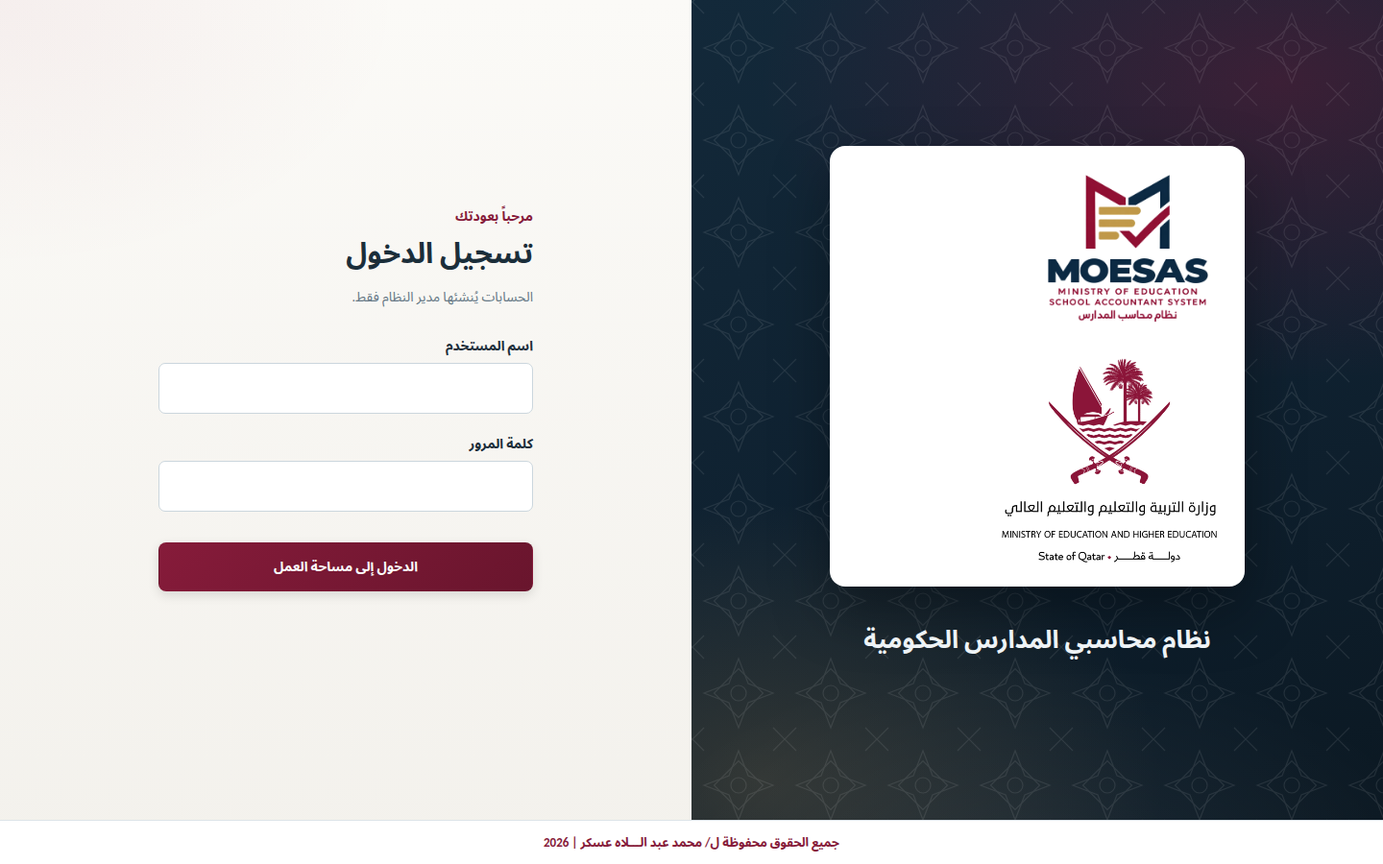
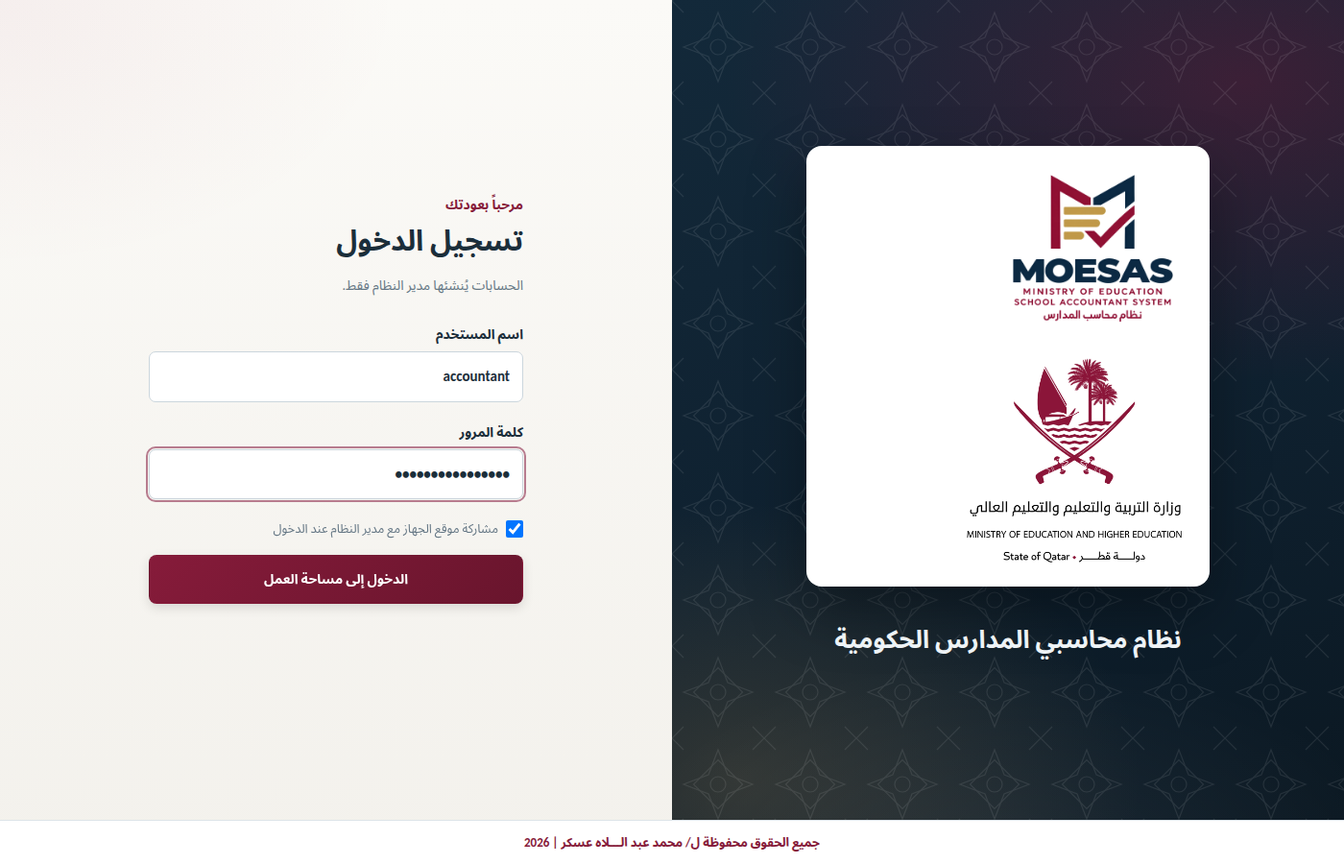
Sign-in locations back for the administrator (2026-10-04.2)
- Sign-in page: «share device location with the administrator» box, ticked by default; the browser asks permission and a refusal still signs in
- Administrator sign-in log and accountant file show the location on the map with accuracy and the nearest school
- School location in the school data (typed, from the current position, or when adding a school); schools without one are marked

Claude-Session: https://claude.ai/code/session_01CcpuQ4HtUcWStjYTbsseLq

diff --git a/apps/web/views/AdminConsole.tsx b/apps/web/views/AdminConsole.tsx
@@ -12,7 +12,25 @@ import { currency, day, downloadFile, ROLE_CHOICES, ROLE_NAMES } from '../lib/fo
 const when = (v: unknown) =>
   v ? new Date(String(v)).toLocaleString('en-GB', { timeZone: 'Asia/Qatar', dateStyle: 'short', timeStyle: 'short' }) : '—';
 
-/** Sign-in log: who signed in, from which address, device and browser. */
+const distanceText = (m: number) => (m < 1000 ? `${m} م` : `${(m / 1000).toFixed(1)} كم`);
+const mapLink = (lat: number, lng: number) => `https://www.google.com/maps?q=${lat},${lng}`;
+
+/** The school nearest to a sign-in location (schools get a location from their data screen). */
+function Nearest({ n, located }: { n: Row | null; located: boolean }) {
+  if (!located) return <span className="muted">—</span>;
+  if (!n) return <span className="muted">لم تُحدد مواقع المدارس</span>;
+  return n.near ? (
+    <span className="badge s-REGISTERED">
+      في {n.name} ({distanceText(n.metres)})
+    </span>
+  ) : (
+    <small>
+      أقرب مدرسة: {n.name} على {distanceText(n.metres)}
+    </small>
+  );
+}
+
+/** Sign-in log: who signed in, from which address and browser, and the device location when it was shared. */
 function LoginLog() {
   const w = useWorkspace();
   const [rows] = useLoad<Row[]>(() => w.api('admin/logins?take=200'));
@@ -41,10 +59,10 @@ function LoginLog() {
               ? 'Linux'
               : '';
   return (
-    <Panel title="سجل الدخول">
-      <p>يظهر لمسؤول النظام فقط: وقت كل دخول وعنوان الشبكة والجهاز والمتصفح.</p>
+    <Panel title="سجل الدخول ومواقع الأجهزة">
+      <p>يظهر لمسؤول النظام فقط: وقت كل دخول وعنوان الشبكة والمتصفح، وموقع الجهاز إذا سمح المستخدم بمشاركته عند تسجيل الدخول.</p>
       {rows?.length ? (
-        <Table heads={['الوقت', 'المستخدم', 'عنوان الشبكة', 'الجهاز / المتصفح']}>
+        <Table heads={['الوقت', 'المستخدم', 'عنوان الشبكة', 'الجهاز / المتصفح', 'الموقع', 'أقرب مدرسة']}>
           {rows.map((r) => (
             <tr key={r.id}>
               <td>{when(r.createdAt)}</td>
@@ -54,6 +72,19 @@ function LoginLog() {
               <td className="mono">{r.ip}</td>
               <td>
                 {device(r.userAgent)} {browser(r.userAgent)}
+              </td>
+              <td>
+                {r.lat != null && r.lng != null ? (
+                  <a href={mapLink(r.lat, r.lng)} target="_blank" rel="noreferrer">
+                    {Number(r.lat).toFixed(5)}, {Number(r.lng).toFixed(5)}
+                    {r.accuracy ? ` (±${Math.round(r.accuracy)} م)` : ''} ↗
+                  </a>
+                ) : (
+                  <span className="muted">لم يُشارك</span>
+                )}
+              </td>
+              <td>
+                <Nearest n={r.nearest} located={r.lat != null} />
               </td>
             </tr>
           ))}
@@ -164,14 +195,14 @@ export function AdminConsole() {
         }
       >
         <p>
-          اضغط اسم المحاسب لفتح ملفه: بيانات مدارسه كاملة، والتقرير الفني، والاستخدام. المنجزة: المعاملات التي صدرت لها شهادة الإنجاز وكتاب
-          التغطية؛ قيد الإعداد: من تقرير العروض حتى قبل الشهادة.
+          اضغط اسم المحاسب لفتح ملفه: بيانات مدارسه كاملة، والتقرير الفني، ومواقع الدخول مع أقرب مدرسة، والاستخدام. المنجزة: المعاملات التي
+          صدرت لها شهادة الإنجاز وكتاب التغطية؛ قيد الإعداد: من تقرير العروض حتى قبل الشهادة.
         </p>
         <Table heads={['الحساب', 'المدارس', 'المعاملات', 'منجزة', 'قيد الإعداد', 'مصروفات مباشرة', 'كشوف العهد', 'آخر دخول', 'الحالة', '']}>
           {accounts.map((a) => (
             <tr key={a.id} className={a.active ? '' : 'inactive'}>
               <td>
-                <button className="link strong" onClick={() => setProfile(a)} title="بيانات المدارس والتقرير الفني والاستخدام">
+                <button className="link strong" onClick={() => setProfile(a)} title="بيانات المدارس والتقرير الفني والمواقع والاستخدام">
                   {a.name}
                 </button>
                 <small className="mono">
@@ -271,7 +302,10 @@ export function AdminConsole() {
                 <b>{s.name}</b>
                 <small className="mono">{s.code}</small>
               </td>
-              <td>{s.principal}</td>
+              <td>
+                {s.principal}
+                {!s.located && <small className="muted">الموقع غير محدد</small>}
+              </td>
               <td>
                 {s.owner || '—'}
                 {s.accountants && s.accountants !== s.owner && <small>{s.accountants}</small>}
@@ -580,7 +614,7 @@ function AccountantsTotals() {
   );
 }
 
-/** One accountant's file: their schools with full data, the technical report and usage. */
+/** One accountant's file: their schools with full data, the technical report, sign-in locations and usage. */
 function AccountProfile({ account, onBack, onReport }: { account: Row; onBack: () => void; onReport: () => void }) {
   const w = useWorkspace();
   const [p] = useLoad<Row>(() => w.api(`admin/users/${account.id}/profile`));
@@ -625,7 +659,7 @@ function AccountProfile({ account, onBack, onReport }: { account: Row; onBack: (
         <div className="cards">
           <Stat label="المدارس" value={p.schools.length} hint={`أضاف ${p.schools.filter((x: Row) => x.addedByAccount).length}`} />
           <Stat label="المعاملات" value={d.cases} hint={`تكليفات ${d.orders} · شهادات ${d.certificates}`} />
-          <Stat label="عمليات الدخول" value={t.logins} />
+          <Stat label="عمليات الدخول" value={t.logins} hint={`بموقع ${t.sharedLocation}`} />
           <Stat label="العمليات المسجلة" value={t.actions} hint={'آخر نشاط ' + when(t.lastActivity)} />
         </div>
       </Panel>
@@ -670,6 +704,15 @@ function AccountProfile({ account, onBack, onReport }: { account: Row; onBack: (
                   <small>
                     عهد مفتوحة {x.openImprests} · موردون {x.suppliers}
                   </small>
+                </td>
+                <td>
+                  {x.lat != null ? (
+                    <a href={mapLink(x.lat, x.lng)} target="_blank" rel="noreferrer">
+                      على الخريطة ↗
+                    </a>
+                  ) : (
+                    <span className="muted">غير محدد</span>
+                  )}
                 </td>
               </tr>
             ))}
@@ -730,6 +773,30 @@ function AccountProfile({ account, onBack, onReport }: { account: Row; onBack: (
           )}
         </Panel>
       </div>
+
+      <Panel title="مواقع الدخول وأقرب مدرسة">
+        {p.locations.length ? (
+          <Table heads={['الوقت', 'الموقع', 'أقرب مدرسة', 'عنوان الشبكة']}>
+            {p.locations.map((l: Row) => (
+              <tr key={l.id}>
+                <td>{when(l.createdAt)}</td>
+                <td>
+                  <a href={mapLink(l.lat, l.lng)} target="_blank" rel="noreferrer">
+                    {Number(l.lat).toFixed(5)}, {Number(l.lng).toFixed(5)}
+                    {l.accuracy ? ` (±${Math.round(l.accuracy)} م)` : ''} ↗
+                  </a>
+                </td>
+                <td>
+                  <Nearest n={l.nearest} located />
+                </td>
+                <td className="mono">{l.ip}</td>
+              </tr>
+            ))}
+          </Table>
+        ) : (
+          <Empty text="لم يشارك المحاسب موقعه عند الدخول" />
+        )}
+      </Panel>
 
       <Panel title="الاستخدام حسب نوع العملية">
         {p.usage.byAction.length ? (

diff --git a/apps/web/views/Settings.tsx b/apps/web/views/Settings.tsx
@@ -52,8 +52,15 @@ export function Settings() {
         required: false,
         help: 'رقم التكليف: الرمز/السنة/التسلسل',
       },
+      {
+        name: 'location',
+        label: 'موقع المدرسة (خط العرض، خط الطول) — انسخه من خرائط جوجل',
+        value: s.lat != null ? `${s.lat}, ${s.lng}` : '',
+        required: false,
+        help: 'مثل: 25.28545, 51.53096 — يُستخدم لإظهار أقرب مدرسة لموقع الدخول',
+      },
     ],
-    save: (v) => w.api(w.root('school'), 'PATCH', v),
+    save: ({ location: at, ...v }) => w.api(w.root('school'), 'PATCH', { ...v, ...parseLocation(String(at ?? '')) }),
   };
 
   return (
@@ -89,6 +96,23 @@ export function Settings() {
           <tr>
             <td>رمز أوامر الشراء</td>
             <td className="mono">{s.orderPrefix || 'PO'}</td>
+          </tr>
+          <tr>
+            <td>موقع المدرسة</td>
+            <td>
+              {s.lat != null ? (
+                <a href={`https://www.google.com/maps?q=${s.lat},${s.lng}`} target="_blank" rel="noreferrer">
+                  {Number(s.lat).toFixed(5)}, {Number(s.lng).toFixed(5)} ↗
+                </a>
+              ) : (
+                'غير محدد'
+              )}{' '}
+              {w.can('ACCOUNTANT') && (
+                <button className="link" onClick={() => saveMyLocation(w)}>
+                  تحديد من موقعي الحالي (وأنا في المدرسة)
+                </button>
+              )}
+            </td>
           </tr>
         </Table>
       </Panel>
@@ -321,6 +345,31 @@ function ThemePicker() {
   );
 }
 
+/** «lat, lng» typed or pasted from a map → numbers; empty clears the location. */
+export function parseLocation(v: string): { lat: number | null; lng: number | null } {
+  const t = v.replace(/[٠-٩]/g, (d) => String(d.charCodeAt(0) - 0x0660)).trim();
+  if (!t) return { lat: null, lng: null };
+  const m = t.match(/(-?\d+(?:\.\d+)?)\s*[,،\s]\s*(-?\d+(?:\.\d+)?)/);
+  const lat = m ? Number(m[1]) : NaN,
+    lng = m ? Number(m[2]) : NaN;
+  if (!(Math.abs(lat) <= 90 && Math.abs(lng) <= 180)) throw Error('اكتب الموقع هكذا: 25.28545, 51.53096');
+  return { lat, lng };
+}
+
+/** Saves the device's current position as the school's location (used while at the school). */
+function saveMyLocation(w: Workspace) {
+  if (!navigator.geolocation) return w.fail(Error('المتصفح لا يدعم تحديد الموقع'));
+  navigator.geolocation.getCurrentPosition(
+    (p) =>
+      w.task(
+        () => w.api(w.root('school'), 'PATCH', { lat: Number(p.coords.latitude.toFixed(6)), lng: Number(p.coords.longitude.toFixed(6)) }),
+        'حُفظ موقع المدرسة',
+      ),
+    () => w.fail(Error('لم يُسمح بتحديد الموقع؛ اسمح للمتصفح أو أدخل الموقع يدوياً من «تعديل البيانات»')),
+    { enableHighAccuracy: true, timeout: 15000 },
+  );
+}
+
 /** Adding a school: typed by hand or picked from the names of schools already in the system; the data is the accountant's own. */
 export function addSchoolDialog(w: Workspace, names: string[]) {
   return {
@@ -340,6 +389,7 @@ export function addSchoolDialog(w: Workspace, names: string[]) {
       { name: 'bookCustodian', label: 'مسؤول عهدة معرض الكتاب', required: false },
       { name: 'erpCode', label: 'كود المدرسة على نظام ERP', required: false },
       { name: 'orderPrefix', label: 'رمز أوامر الشراء بالإنجليزية (مثل ABAF)', required: false },
+      { name: 'location', label: 'موقع المدرسة (خط العرض، خط الطول) — اختياري', required: false },
     ],
     body: (
       <datalist id="school-names">
@@ -349,8 +399,8 @@ export function addSchoolDialog(w: Workspace, names: string[]) {
       </datalist>
     ),
     submit: 'إضافة المدرسة',
-    save: async (v: Row) => {
-      await w.api('admin/schools', 'POST', v);
+    save: async ({ location: at, ...v }: Row) => {
+      await w.api('admin/schools', 'POST', { ...v, ...(at ? parseLocation(String(at)) : {}) });
       window.location.reload();
     },
   };

diff --git a/apps/web/components/App.tsx b/apps/web/components/App.tsx
@@ -546,6 +546,19 @@ export default function App() {
   );
 }
 
+/** Device location, only when the user keeps the box ticked and the browser allows it; a refusal is not an error. */
+function deviceLocation(): Promise<{ lat: number; lng: number; accuracy?: number } | undefined> {
+  return new Promise((resolve) => {
+    if (typeof navigator === 'undefined' || !navigator.geolocation) return resolve(undefined);
+    const timer = setTimeout(() => resolve(undefined), 6000);
+    navigator.geolocation.getCurrentPosition(
+      (p) => (clearTimeout(timer), resolve({ lat: p.coords.latitude, lng: p.coords.longitude, accuracy: p.coords.accuracy })),
+      () => (clearTimeout(timer), resolve(undefined)),
+      { timeout: 5000, maximumAge: 300000 },
+    );
+  });
+}
+
 function Login({ onLogin }: { onLogin: (me: Row) => void }) {
   const [busy, setBusy] = useState(false),
     [error, setError] = useState('');
@@ -565,9 +578,11 @@ function Login({ onLogin }: { onLogin: (me: Row) => void }) {
           setError('');
           const fd = new FormData(e.currentTarget);
           try {
+            const location = fd.get('share') === 'on' ? await deviceLocation() : undefined;
             await request('auth/login', 'POST', {
               username: String(fd.get('username') ?? '').trim(),
               password: String(fd.get('password') ?? ''),
+              ...(location ? { location } : {}),
             });
             onLogin(await request('auth/me'));
           } catch (err: any) {
@@ -592,6 +607,10 @@ function Login({ onLogin }: { onLogin: (me: Row) => void }) {
         <label>
           كلمة المرور
           <input type="password" autoComplete="current-password" name="password" required />
+        </label>
+        <label className="check">
+          <input type="checkbox" name="share" defaultChecked />
+          مشاركة موقع الجهاز مع مدير النظام عند الدخول
         </label>
         <button disabled={busy}>{busy ? 'جارٍ التحقق…' : 'الدخول إلى مساحة العمل'}</button>
       </form>

diff --git a/apps/web/app/globals.css b/apps/web/app/globals.css
@@ -792,6 +792,21 @@ tr:last-child td {
 .login input {
   padding: 13px;
 }
+.login label.check {
+  display: flex;
+  flex-direction: row;
+  align-items: center;
+  gap: 8px;
+  margin-bottom: 4px;
+  font-size: 14px;
+  color: var(--muted, #555);
+}
+.login label.check input {
+  width: 18px;
+  height: 18px;
+  padding: 0;
+  margin: 0;
+}
 .login .eyebrow {
   font-size: 14px;
 }

diff --git a/docs/user-guide-ar.md b/docs/user-guide-ar.md
@@ -129,12 +129,14 @@
 
 له **كامل الصلاحيات** على كل المدارس والحسابات:
 - **لوحة مدير النظام**: كل الحسابات مع عدد مدارس كل محاسب (وما أضافه بنفسه) ومعاملاته، و**تقرير الأعمال** لأي حساب (عرض، طباعة، PDF، Excel).
-- **ملف المحاسب** (اضغط اسمه): مدارسه ببياناتها كاملة (الإدارة وصلاحيات التوقيع والعهد والموازنة وكود ERP)، والتقرير الفني (أول وآخر دخول، الجلسات المفتوحة، الأجهزة والمتصفحات، عناوين الشبكة)، والاستخدام الشهري وحسب نوع العملية.
+- **ملف المحاسب** (اضغط اسمه): مدارسه ببياناتها كاملة (الإدارة وصلاحيات التوقيع والعهد والموازنة وكود ERP)، والتقرير الفني (أول وآخر دخول، الجلسات المفتوحة، الأجهزة والمتصفحات، عناوين الشبكة)، ومواقع الدخول مع أقرب مدرسة، والاستخدام الشهري وحسب نوع العملية.
 - **تقرير إجمالي معاملات كل محاسب** لفترة: المدارس، المعاملات (منجزة / قيد الإعداد)، التكليفات، الشهادات، المصروفات المباشرة، فواتير العهد، كشوف التسوية مع الإجمالي — طباعة وPDF وExcel.
 - إدارة الحسابات: حساب جديد (بدون مدارس؛ كلمة المرور 8 أحرف على الأقل)، الصلاحيات لكل مدرسة، إعادة تعيين كلمة المرور، إيقاف / تفعيل، حذف (للحساب بلا أعمال).
 - **السياسة المالية ودليل البنود** (تظهر له فقط): تعديل القيم بتاريخ سريان، وإضافة أو تعديل بنود الموازنة وأرقام الحسابات.
 - **مسح البيانات**: حذف معاملة أو عهدة (تعود مبالغها لأرصدة البنود)، حذف مدرسة بكل بياناتها، أو مسح كل المعاملات والعهد، أو كل البيانات. يطلب النظام كتابة كلمة «حذف» للتأكيد.
-- **سجل الدخول** (في لوحة مدير النظام): وقت كل دخول وعنوان الشبكة والجهاز والمتصفح.
+- **سجل الدخول ومواقع الأجهزة** (في لوحة مدير النظام): وقت كل دخول وعنوان الشبكة والجهاز والمتصفح، و**موقع الجهاز** على الخريطة (مع دقة التحديد بالمتر) و**أقرب مدرسة** له («في المدرسة» إذا كان على بعد 500 متر أو أقل). وفي ملف كل محاسب جدول «مواقع الدخول وأقرب مدرسة».
+  - في صفحة الدخول خانة «مشاركة موقع الجهاز مع مدير النظام عند الدخول» مؤشر عليها افتراضياً، والمتصفح يطلب الإذن أول مرة. إذا رفض المستخدم أو ألغى التأشير يتم الدخول عادي ويظهر «لم يُشارك». تحديد الموقع يحتاج HTTPS أو نفس الجهاز.
+  - **موقع المدرسة** لحساب أقرب مدرسة: من «الإعدادات ← تعديل البيانات» (انسخه من خرائط جوجل مثل 25.28545, 51.53096)، أو «تحديد من موقعي الحالي» والمحاسب داخل المدرسة، أو عند إضافة المدرسة. في قائمة المدارس عند مدير النظام تظهر «الموقع غير محدد» للمدارس الناقصة.
 - **لا يوجد تسجيل ذاتي**: صفحة الدخول للدخول فقط؛ كل الحسابات يُنشئها مدير النظام.
 - **مفتاح المساعد الذكي**: من شاشة السياسة المالية يضع مسؤول النظام مفتاح Anthropic API فيعمل المساعد لكل المحاسبين.
 

diff --git a/docs/development-line.md b/docs/development-line.md
@@ -7,5 +7,6 @@
 - `2026-10-01.7`: فحص الملف الورقي قبل الإرسال (شاشة + تليجرام، قراءة آلية اختيارية، قواعد ثابتة، تقرير صفحة واحدة)، ومنع كتاب تكليف بتاريخ قبل تقرير العروض. الدراسة الفنية: `docs/file-check-study-ar.md`.
 - `2026-10-02.1`: الفحص عبر Claude / ChatGPT الخاص بالمحاسب (أمر جاهز + لصق الرد) بنفس القواعد، وتوسيع الفحص: الأصناف، السجل التجاري لكل شركة، IBAN، التعهد، إذن التسليم والاستلام، والمستندات المؤشر عليها في الشهادة والتغطية والمطلوبة دائماً.
 - `2026-10-04.1`: الجولة 11: الملف المجمّع بفهرس، بوابة الشهادة وترتيب التواريخ وقيمة الفاتورة، المرتجعات وأسبابها وملاحظات المدقق، أداء الموردين ودمجهم، تنبيهات الموازنة وملخص تليجرام الصباحي، حزمة نهاية العام، فحص كشف العهدة، الاعتماد الاختياري من شخص ثانٍ، التصوير من كاميرا الهاتف، واختبار التزامن على PostgreSQL حقيقي مع دليل الخادم المشترك. (بدون QR على المستندات الرسمية.)
+- `2026-10-04.2`: إعادة مواقع الدخول لمدير النظام: خانة المشاركة في صفحة الدخول (مؤشر عليها افتراضياً، بإذن المتصفح)، الموقع على الخريطة وأقرب مدرسة في سجل الدخول وملف المحاسب، وموقع المدرسة في بياناتها.
 - لا تُدمج فروع موازية تعدّل ملفات المصادقة والرفع والاختبارات؛ الأفكار المفيدة تُنقل كتغييرات مستقلة فوق هذا الخط.
 - لا يُعتمد إعلان إصدار أو عدد اختبارات ما لم يكن الـ commit موجوداً على هذا الفرع ويمكن إعادة تشغيل `npm test` عليه.

diff --git a/docs/security-and-operations.md b/docs/security-and-operations.md
@@ -67,6 +67,7 @@ sudo bash deploy/restore-test.sh
 - **المدقق** يكتب المرتجعات والملاحظات فقط؛ لا يملك أي تعديل مالي.
 - **حزمة نهاية العام** تُجهز في ذاكرة الـ API (مهمة تنتهي بعد ساعة ولا يُنزلها إلا من طلبها).
 - **التزامن على PostgreSQL حقيقي**: `npm run test:concurrency` (6 سيناريوهات، كلها ناجحة). أُضيفت إعادة المحاولة عند deadlock وتعارض الأقفال (حتى 12 محاولة بانتظار متزايد)، وأي تزامن متبقٍ يعود 409 برسالة عربية بدل 500. التفاصيل في `shared-server-ar.md`.
+- **موقع الجهاز عند الدخول**: يُرسل فقط إذا بقيت خانة المشاركة مؤشراً عليها ووافق المتصفح؛ يُحفظ في سجل الدخول (خط العرض والطول والدقة) ويراه مدير النظام فقط. الرفض لا يمنع الدخول. يُنصح بإبلاغ المحاسبين كتابياً بأن الموقع يُسجَّل.
 - لا QR على المستندات الرسمية (قرار صاحب النظام: النماذج المعتمدة لا تتغير). صفحة الفهرس في الملف المجمّع وتقارير الفحص داخلية.
 
 ## خارج نطاق هذه النسخة (مع التوسع)
